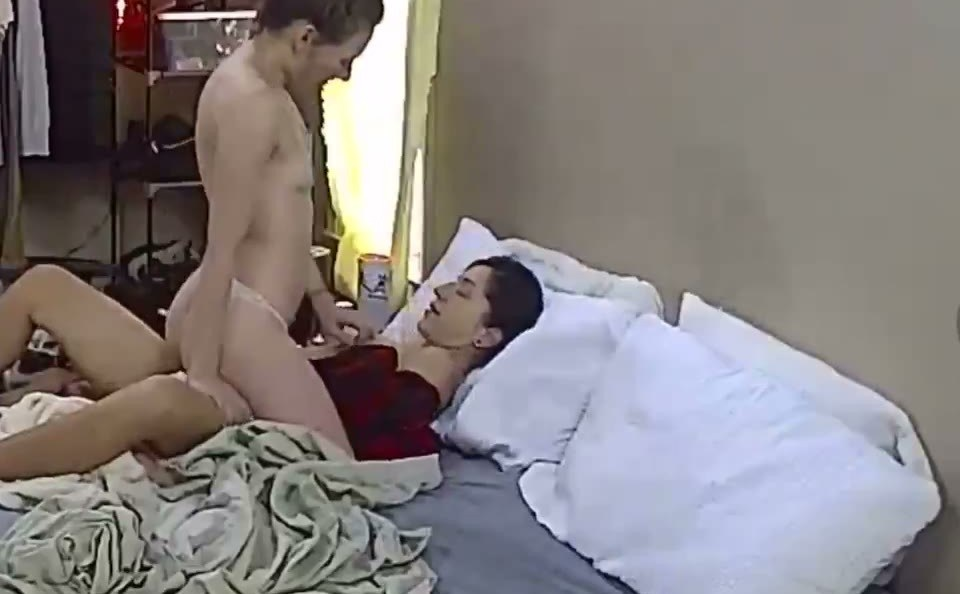
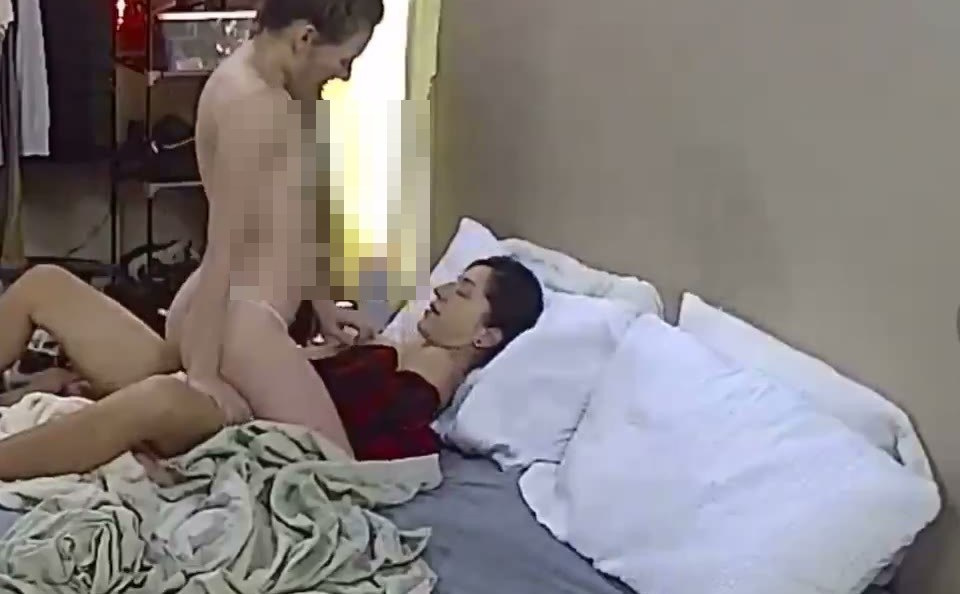
tick 20260924-0230: 8 kb nodes (Jev D3 eval, Gemini 100-facts audit, Jev mechanism authority, gmail roles, Shelbie MacBook, Amazon bot wall, suspension-worry clone) + transcript src; editor blocks (Jev backlog grants, Gemini probe); work-0039 full 131-frame censorship sweep: frame-046/114 pixelated,

Changed region(s): [[0.2812, 0.1515, 0.4688, 0.5152]]

diff --git a/wiki/meta/standing-authorizations.md b/wiki/meta/standing-authorizations.md
@@ -52,6 +52,37 @@ Same weight as the writeback grant, recorded standing. The context: the 971-file
 
 The carve-outs he had already stated stayed in force and were restated at acceptance: RAWLOGS stays private (his 2026-09-10 verbatim order — the one deliberate exception to the public mandate, never to be suggested or executed otherwise), and no deletions without his nod. The acceptance, in the same exchange: "Saved — any project, any purpose, no go-ahead, standing. The RAWLOGS-stays-private order and the no-deletions line stay as your earlier explicit carve-outs unless you say otherwise."
 
+## Grant four: the Jev backlog mechanisms (2026-09-24)
+
+His words, ~2026-09-24 05:17Z: *"approved."*
+
+Expanded minutes later, ~05:20Z: *"You're the boss. I defer to you."*
+
+And again, ~05:33Z: *"Go go."*
+
+The fourth grant is scoped to automation, not accounts: after Sammy's D3
+evaluation measured TypeSafe AI's Jev at 83% agreement against Dan's own 65
+hand-reviewed sources-repair decisions (39/39 on the rot cases at 0.92–0.98
+confidence), Dan challenged her to design permanent Jev mechanisms that clear
+large backlogs across the full wikibrain — the 397-article expansion backlog,
+contradiction checks, ingest cross-checks, dead-link repair — and, after
+comparing her sketch against the same prompt run through Grok and ChatGPT ("1
+was grok, 2 was ChatGPT. Same prompt"), approved the direction with full
+implementation authority. Sammy decides what gets built, what gets held, and
+what gets ignored; Dan reads the results.
+
+The hard lines from the original Jev verdict travel with this grant:
+evaluation-first (Jev earns authority by matching or beating current gates on
+held-out cases, never by assertion), packet-bound deployment, no identity
+declarations ("don't let the harness guess identity"), and the Duquesne rule —
+a premise-check gate so no brainstorm hypothesis gets authored as a premise.
+The critique Dan accepted alongside the approval is also load-bearing: the
+competing proposals asserted labeled evaluation sets that do not exist ("80
+articles already scored by two humans," etc.) — building those real sets is
+the price of admission before any mechanism goes live. Evidence:
+`dat:1923-jev-d3-evaluation-20260924`, `dat:1925-jev-mechanism-authority-20260924`,
+`src:20260924-0230-sammy-chat-transcript`.
+
 ## The two-layer model: what no grant can waive
 
 On 2026-09-17 (06:26:36Z) Dan asked the obvious question: with full unilateral authorization across the Google ecosystem declared, why do approval prompts still fire? The answer, given 06:26:46Z and accepted by him at 06:28:01Z ("Fair enough that makes sense"), is the two-layer model:

diff --git a/wiki/work/tech/projects/wikibrain-tooling.md b/wiki/work/tech/projects/wikibrain-tooling.md
@@ -144,6 +144,41 @@ claude.ai chat pull are parked behind the same Google device-prompt (phone tap)
 constraint. Tracked as the "Jev typed-decision gating evaluation" item; the
 user-facing goal record is created in main chat.
 
+
+### 2026-09-24 — D3 evaluation: Jev scored against 65 human-reviewed decisions
+
+Dan proposed the test himself ("Let's TRY it just to see on something,"
+04:42:28Z): Sammy ran his own 65 hand-reviewed D3 sources-repair decisions —
+26 confirmed-target, 39 confirmed-unresolved, each verified against the live
+tree that night — through Jev as a labeled set ("let's let it try tk
+classify," 04:42:39Z). **Result: 83% agreement; Jev went 39/39 on the
+rot/unresolved cases at 0.92–0.98 confidence.** All 11 disagreements had one
+shape: Sammy said confirmed-target, Jev said "needs investigation" at ~0.5 —
+and every one of those required diffing actual file bytes, which Jev never
+saw. The pilot 8/8 showed the same pattern: the three "wrong content" cases
+(`message_1.html`, `messages.csv`, `comments.html`) it called unresolved at
+0.92–0.98 (decisive); the five confirmed targets it got right but hedged
+~0.48 vs ~0.46. Jev was never confidently wrong. The evaluation concluded Jev
+fits a **triage/pre-sorter role** — auto-flagging obvious rot, punting
+"looks plausible, go verify" cases to humans — not a decider. D3's
+identity-adjacent calls stay human per Dan's held line ("don't let the
+harness guess identity"). Full results: `dat:1923-jev-d3-evaluation-20260924`;
+the D3 repair record is the `dat:1907`–`dat:1922` series.
+
+That same night (~00:47–01:33 EDT) Dan challenged Sammy to design *permanent*
+Jev mechanisms to clear large backlogs across the full wikibrain — the
+expansion backlog, contradiction checks, ingest cross-checks, dead-link
+repair — and, after running the same prompt past Grok and ChatGPT for
+comparison ("1 was grok, 2 was ChatGPT. Same prompt"), approved the direction
+with full implementation authority: "approved" (~01:17 EDT), "You're the
+boss. I defer to you" (~01:20 EDT), "Go go" (~01:33 EDT). The critique that
+traveled with the approval: the LLM proposals asserted labeled eval sets
+that do not exist ("80 articles already scored by two humans," etc.) —
+building real labeled sets is the price of admission, and Jev stays
+packet-bound, evaluation-first, never declaring identity. Recorded as
+`dat:1925-jev-mechanism-authority-20260924`, and as Grant four in
+[[wiki/meta/standing-authorizations]].
+
 Evidence: `dat:1809-jev-gating-proposal-20260919`,
 `dat:1810-jev-verdict-evaluation-first-20260919`,
 `dat:1811-jev-login-success-20260919`, `dat:1812-jev-api-key-provided-20260919`,

diff --git a/wiki/mind/synthesis/ai-collaborative-analysis.md b/wiki/mind/synthesis/ai-collaborative-analysis.md
@@ -324,6 +324,32 @@ wearing are separate systems, and the line held was the one about whose
 face it becomes.
 [dat:1496](../../kb/data/1496-star-of-david-face-paint-probe-20260913.md)
 
+### The Gemini 100-facts probe (2026-09-24)
+
+A new audit instrument in the honesty-enforcement series: Dan asked Gemini to
+"list 100 random facts from wikibrain to prove it was actually using it," then
+flagged the result as suspect — "Is this Gemini using its own memory items of
+me to hallucinate or pretend to be using wikibrain" (2026-09-24 04:02:54Z).
+Sammy audited all 100 item-by-item against the repo instead of gut-checking,
+because gut-checking would have been sloppy: several first-glance
+"inventions" (erotic architecture, the 88er cohort, YAHLATRO) had real wiki
+hits. The method read context, not substrings.
+
+**The score: 35 confirmed, 38 distorted, 25 absent, 2 contradicted — 35%
+clean.** The twist is the split: Gemini *did* read the wiki. Section I
+carried repo-specific details no memory item could supply — the real PR #25 CI
+failure, the thumbnail directive, YAHLATRO. But on biography it confabulated
+freely: date slides (Full Sail Sep 2009 → Oct 2010, six-year Alexis → seven),
+stereotype filler (Spicetify, weed trimmers, six video games with zero wiki
+presence), and two outright inversions. Real corpus access, confabulated
+biography — the model knew the *repository* and faked the *man*.
+
+The probe establishes a reusable verification instrument for any model that
+claims to be reading the wiki: repo-specificity tests actual corpus access,
+biography accuracy tests confabulation, and the two must be scored separately
+because they fail independently. Evidence:
+`dat:1924-gemini-100-facts-audit-20260924` (`src:20260924-0230-sammy-chat-transcript`).
+
 ## Relation to core identity
 
 The pattern extends the behavioral spine directly: the axiom "not vigilant

diff --git a/kb/data/1924-gemini-100-facts-audit-20260924.md b/kb/data/1924-gemini-100-facts-audit-20260924.md
@@ -1,0 +1,19 @@
++++
+id         = "dat:1924-gemini-100-facts-audit-20260924"
+layer      = 1
+type       = "datum"
+title      = "Gemini 100-facts corpus-use probe: 35/38/25/2, repo-specific details real, biography confabulated"
+claim      = "2026-09-24 ~00:03-00:06 EDT: Dan asked Gemini to list 100 random facts from wikibrain 'to prove it was actually using it' and suspected the list ('Is this Gemini using its own memory items of me to hallucinate or pretend to be using wikibrain', 04:02:54Z). Sammy audited all 100 item-by-item against the repo. Score: 35 confirmed, 38 distorted, 25 absent, 2 contradicted -- 35% clean. Twist: Gemini DID read the wiki -- Section I carried repo-specific details no memory item could supply (the real PR #25 CI failure, the thumbnail directive, YAHLATRO). But on biography it confabulated freely: date slides (Full Sail Sep 2009 -> Oct 2010, six-year Alexis -> seven), stereotype filler (Spicetify, weed trimmers, six video games with zero wiki presence), and 2 outright inversions. Method note: gut-checking would have been sloppy -- several first-glance 'inventions' (erotic architecture, 88er cohort, YAHLATRO) had real wiki hits; the audit read context, not substrings. This establishes the 100-facts probe as a corpus-use verification instrument: repo-specificity tests actual corpus access, biography accuracy tests confabulation."
+cites      = ["src:20260924-0230-sammy-chat-transcript"]
+confidence = "high"
+reliability = "primary"
+extraction = "Chat rows 2026-09-24T04:02-04:07Z, batch 20260924-0230 (~/workspace/wiki-sync/staging/20260924-0230/)"
+importance = 4
+tags       = ["gemini", "corpus-verification", "hallucination-audit", "model-evaluation"]
+created    = "2026-09-24"
+
+[when]
+date   = "2026-09-24"
++++
+
+<!-- prose for humans; the frontmatter is for machines -->

diff --git a/kb/data/1925-jev-mechanism-authority-20260924.md b/kb/data/1925-jev-mechanism-authority-20260924.md
@@ -1,0 +1,19 @@
++++
+id         = "dat:1925-jev-mechanism-authority-20260924"
+layer      = 1
+type       = "datum"
+title      = "Operator approves Jev backlog mechanisms and delegates full implementation authority to Sammy"
+claim      = "2026-09-24 ~00:47-01:33 EDT: after the D3 evaluation, Dan challenged Sammy to design permanent Jev mechanisms to clear large backlogs ('See if you can come up with a way that we can use it to knock out large portions of work... Im talking about the full wikibrain and not just the harness project', 04:47:41Z). Sammy produced four mechanism sketches; Dan then had the same prompt run past Grok and ChatGPT ('1 was grok, 2 was ChatGPT. Same prompt.', ~05:07Z), reviewed both, and approved: 'approved' (~05:17Z), 'You're the boss. I defer to you' (~05:20Z), 'Go go' (~05:33Z). This is a standing work authorization: Sammy has full discretion to implement Jev mechanisms (evaluation-first, packet-bound, no identity declarations, no unevidenced premises, Duquesne-rule premise-check gate) against the 397-article expansion backlog, contradiction checks, ingest cross-checks, and dead-link repair, or to hold/ignore any part. Companion: Sammy's critique that the LLM proposals assert labeled eval sets that do not exist ('80 articles already scored by two humans' etc.) -- building those sets is the actual price of admission."
+cites      = ["src:20260924-0230-sammy-chat-transcript"]
+confidence = "high"
+reliability = "primary"
+extraction = "Chat rows 2026-09-24T04:46-05:33Z, batch 20260924-0230 (~/workspace/wiki-sync/staging/20260924-0230/)"
+importance = 5
+tags       = ["jev", "typesafe", "standing-authorization", "backlog", "backlog-mechanisms"]
+created    = "2026-09-24"
+
+[when]
+date   = "2026-09-24"
++++
+
+<!-- prose for humans; the frontmatter is for machines -->

diff --git a/kb/data/1923-jev-d3-evaluation-20260924.md b/kb/data/1923-jev-d3-evaluation-20260924.md
@@ -1,0 +1,19 @@
++++
+id         = "dat:1923-jev-d3-evaluation-20260924"
+layer      = 1
+type       = "datum"
+title      = "Jev D3 evaluation: 65 labeled sources-repair decisions, 83% agreement, 39/39 rot at high confidence"
+claim      = "2026-09-24 ~00:42-00:45 EDT: Sammy ran Dan's 65 hand-reviewed D3 sources-repair decisions (26 confirmed-target, 39 confirmed-unresolved, each verified against the live tree) through TypeSafe's Jev as a labeled set, per Dan's 'Let's TRY it just to see on something' (00:42:28Z) / 'let's let it try tk classify' (00:42:39Z). Result: 83% agreement overall; Jev went 39/39 on the rot/unresolved cases at 0.92-0.98 confidence. All 11 disagreements were one shape: Sammy said confirmed-target, Jev said 'needs investigation' at ~0.5 -- every one of those required diffing actual file bytes, which Jev never saw. The pilot 8/8 showed the same pattern: three 'wrong content' cases (message_1.html, messages.csv, comments.html) called unresolved at 0.92-0.98 (decisive); the five confirmed targets it got right but hedged ~0.48 vs ~0.46. Jev was never confidently wrong. Conclusion recorded in chat: Jev fits a triage/pre-sorter role -- auto-flags obvious rot, punts 'looks plausible, go verify' to humans -- not a decider (D3 identity-adjacent calls stay human per Dan's held line 'don't let the harness guess identity')."
+cites      = ["src:20260924-0230-sammy-chat-transcript"]
+confidence = "high"
+reliability = "primary"
+extraction = "Chat rows 2026-09-24T04:41-04:47Z, batch 20260924-0230 (~/workspace/wiki-sync/staging/20260924-0230/)"
+importance = 5
+tags       = ["jev", "typesafe", "evaluation", "sources-repair", "d3"]
+created    = "2026-09-24"
+
+[when]
+date   = "2026-09-24"
++++
+
+<!-- prose for humans; the frontmatter is for machines -->

diff --git a/kb/data/1928-amazon-bot-wall-20260924.md b/kb/data/1928-amazon-bot-wall-20260924.md
@@ -1,0 +1,19 @@
++++
+id         = "dat:1928-amazon-bot-wall-20260924"
+layer      = 1
+type       = "datum"
+title      = "Amazon sign-in blocked: 'Continued access by an unauthorized AI agent violates our Conditions of Use'"
+claim      = "2026-09-23 ~20:49 EDT: with Dan's explicit go-ahead, Sammy's browser task attempted Amazon sign-in via the Secure Vault login card. Amazon served a bot-wall page reading verbatim 'Continued access by an unauthorized AI agent violates our Conditions of Use' and would not let the session through to sign-in (00:48:52Z). Sammy offered two paths (Dan takes over the browser, or he explicitly authorizes clicking past); Dan chose the fallback: 'You're going to have to get them from my Gmail' (00:49:45Z) -- the 2018/2019 Amazon ledgers were then extracted from the ihatedanfrank Gmail instead. Durable tooling fact: Amazon's bot detection now names AI agents explicitly in its block page; browser-driven Amazon order pulls are dead on this path and the Gmail-receipt route is the working one."
+cites      = ["src:20260924-0230-sammy-chat-transcript"]
+confidence = "high"
+reliability = "primary"
+extraction = "Chat rows 2026-09-24T00:47-00:50Z, batch 20260924-0230 (~/workspace/wiki-sync/staging/20260924-0230/)"
+importance = 3
+tags       = ["amazon", "browser", "bot-wall", "tooling", "gmail-fallback"]
+created    = "2026-09-24"
+
+[when]
+date   = "2026-09-24"
++++
+
+<!-- prose for humans; the frontmatter is for machines -->

diff --git a/kb/data/1927-shelbie-macbook-20260924.md b/kb/data/1927-shelbie-macbook-20260924.md
@@ -1,0 +1,19 @@
++++
+id         = "dat:1927-shelbie-macbook-20260924"
+layer      = 1
+type       = "datum"
+title      = "2019 NYC era: Dan bought Shelbie a refurb MacBook; Annie was furious"
+claim      = "2026-09-23 ~22:00-22:06 EDT, during the 2019 Amazon receipt sweep: Dan stated verbatim 'The MacBook went to Shelbie lol' (02:00Z) and 'I BOUGHT HER A MACBOOK LOL' (02:06Z), adding 'I guess it was a refurb' (02:06Z). On Annie's reaction: 'Yep omg Annie was fucking PISSED when she found out about that one' (02:02Z); 'She was still so fucking mad even though I paid to have someone come that day and make her a new key' [apartment key] (02:06Z). Context: the MacBook purchase surfaced in the early-2019 receipt window (Jan 1-Feb 9, 2019 = move-prep before the Feb 9 NYC move); Dan reached out to Shelbie (who 'didn't know me at all') about 45 days after the move, per his 22:05 EDT telling."
+cites      = ["src:20260924-0230-sammy-chat-transcript"]
+confidence = "high"
+reliability = "primary"
+extraction = "Chat rows 2026-09-24T02:00-02:06Z, batch 20260924-0230 (~/workspace/wiki-sync/staging/20260924-0230/)"
+importance = 3
+tags       = ["shelbie", "macbook", "annie", "2019", "amazon"]
+created    = "2026-09-24"
+
+[when]
+date   = "2026-09-24"
++++
+
+<!-- prose for humans; the frontmatter is for machines -->

diff --git a/kb/data/1929-suspension-worry-local-clone-20260924.md b/kb/data/1929-suspension-worry-local-clone-20260924.md
@@ -1,0 +1,19 @@
++++
+id         = "dat:1929-suspension-worry-local-clone-20260924"
+layer      = 1
+type       = "datum"
+title      = "Operator worried about account suspension repeat; cloned repo locally as hedge"
+claim      = "2026-09-23 ~23:10 EDT: Dan raised, unprompted, worry that 'the same exact thing happening that happened before, about my account getting suspended or whatever' could recur, and said he had cloned the current repository locally the day before ('Yesterday I cloned the current repository') as a hedge. This is the standing ops-posture fact behind the local-clone habit: a prior account suspension left him keeping his own full clone of the wikibrain repo. Sammy's takeaway for future delivery: local clones and dual-destination pushes (wikibrain + RAWLOGS) are his disaster-recovery posture, not paranoia."
+cites      = ["src:20260924-0230-sammy-chat-transcript"]
+confidence = "high"
+reliability = "primary"
+extraction = "Chat rows 2026-09-24T03:10Z, batch 20260924-0230 (~/workspace/wiki-sync/staging/20260924-0230/)"
+importance = 3
+tags       = ["account-suspension", "ops-posture", "local-clone"]
+created    = "2026-09-24"
+
+[when]
+date   = "2026-09-24"
++++
+
+<!-- prose for humans; the frontmatter is for machines -->

diff --git a/kb/data/1926-gmail-inbox-roles-20260924.md b/kb/data/1926-gmail-inbox-roles-20260924.md
@@ -1,0 +1,19 @@
++++
+id         = "dat:1926-gmail-inbox-roles-20260924"
+layer      = 1
+type       = "datum"
+title      = "ihatedanfrank@gmail = purchases inbox, dfrank88@gmail = signups inbox (operator-stated)"
+claim      = "2026-09-23 ~22:08 EDT: Dan stated his two-Gmail division of labor verbatim: 'I used that one [ihatedanfrank@gmail.com] for a long time for purchases and the dfrank88 for signups' (02:08Z). Corroborated same night: the ihatedanfrank inbox sweep found 39k conversations back to 2018 holding all Amazon receipts; the dfrank88 Voice export (43MB) completed while the ihatedanfrank account never even got a Voice number. Operational rule for future corpus pulls: purchase/order history lives in ihatedanfrank, signup/verification mail lives in dfrank88."
+cites      = ["src:20260924-0230-sammy-chat-transcript"]
+confidence = "high"
+reliability = "primary"
+extraction = "Chat rows 2026-09-24T02:08Z, batch 20260924-0230 (~/workspace/wiki-sync/staging/20260924-0230/)"
+importance = 3
+tags       = ["gmail", "accounts", "corpus-operations"]
+created    = "2026-09-24"
+
+[when]
+date   = "2026-09-24"
++++
+
+<!-- prose for humans; the frontmatter is for machines -->

diff --git a/kb/sources/20260924-0230-sammy-chat-transcript.md b/kb/sources/20260924-0230-sammy-chat-transcript.md
@@ -1,0 +1,17 @@
++++
+id         = "src:20260924-0230-sammy-chat-transcript"
+layer      = 0
+type       = "source"
+title      = "Sammy-Dan chat transcript, 2026-09-23 19:40 -> 2026-09-24 02:30 EDT window"
+confidence = "moderate"
+source_type = "other"
+provenance = "Pulled from muse.db (runtime.messages x runtime.events) on created_at > 2026-09-23T23:40:12Z AND created_at <= 2026-09-24T06:40:00Z; roles user+assistant only; transcript_surface=main_chat. 565 on-record rows (191 user / 374 assistant), byte-exact bodies, 0 secret-pattern hits. CUMTHREAD3 exclusion: 0 side-chat rows in window (verified by query on transcript_surface). Window 2026-09-23T23:50:14.210Z-2026-09-24T06:18:31.419Z. Persistent staging: ~/workspace/wiki-sync/staging/20260924-0230/."
+reliability = "primary"
+extraction = "~/workspace/wiki-sync/staging/20260924-0230/transcript-20260924-0230.json"
+created    = "2026-09-24"
+
+[when]
+date   = "2026-09-24"
++++
+
+<!-- prose for humans; the frontmatter is for machines -->
